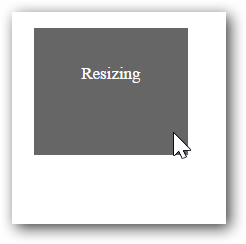
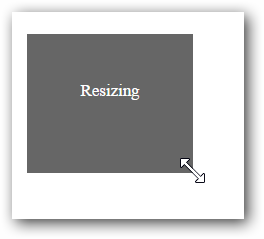
Made changes

diff --git a/js/Resizable/Functionalities.md b/js/Resizable/Functionalities.md
@@ -205,16 +205,16 @@ We have some properties [minHeight](https://help.syncfusion.com/api/js/ejresizab
               minWidth: 90,
               maxHeight: 130,
               maxWidth: 150,
+             scope:"Container",
+              minHeight: 80,
+              minWidth: 90,
+              maxHeight: 130,
+              maxWidth: 150,
               resizeStop:function(event)
               {
-                  if (event.element.height() == 130)
-                      $(".Resizetext")[0].innerText = "Cannot exceed maxHeight";
-                  if (event.element.width() == 150)
-                      $(".Resizetext")[0].innerText = "Cannot exceed maxWidth"
-                  if(event.element.height() == 80)
-                      $(".Resizetext")[0].innerText = "Below minHeight";
-                  if (event.element.width() == 90)
-                      $(".Resizetext")[0].innerText = "Below minWidth";
+                  if ((event.element.height() == 130)||(event.element.width() == 150)||(event.element.height() == 80)||(event.element.width() == 90))
+                      $(".Resizetext")[0].innerText = "Resize Restricted.Out of scope!";
+                  
               }
           });
 
@@ -226,18 +226,6 @@ Before Resize:
 
 ![](Functionalities_images/Resize.png)
 
-When resize beyond maxWidth:
+When resize done out of these limits:
 
-![](Functionalities_images/maxWidth.png)
-
-When resize beyond maxHeight:
-
-![](Functionalities_images/maxHeight.png)
-
-When resize below minWidth:
-
-![](Functionalities_images/minWidth.png)
-
-When resize below minHeight:
-
-![](Functionalities_images/minHeight.png)
+![](Functionalities_images/Exceed.png)

diff --git a/js/Resizable/Getting-Started.md b/js/Resizable/Getting-Started.md
@@ -115,7 +115,6 @@ HTML elements can be resized  by using ejResizable widget. This section explains
             text-align: center;
             z-index: 100002;
             background-color: #666;
-            cursor: nw-resize;
         }
 
 
@@ -144,7 +143,8 @@ HTML elements can be resized  by using ejResizable widget. This section explains
               },
             resize: function(event)
               {
-                  $(".Resizetext")[0].innerText ="Resizing"
+                  $(".Resizetext")[0].innerText ="Resizing";
+                   $(".Resize").css("cursor","nw-resize");
               }
 
           });
